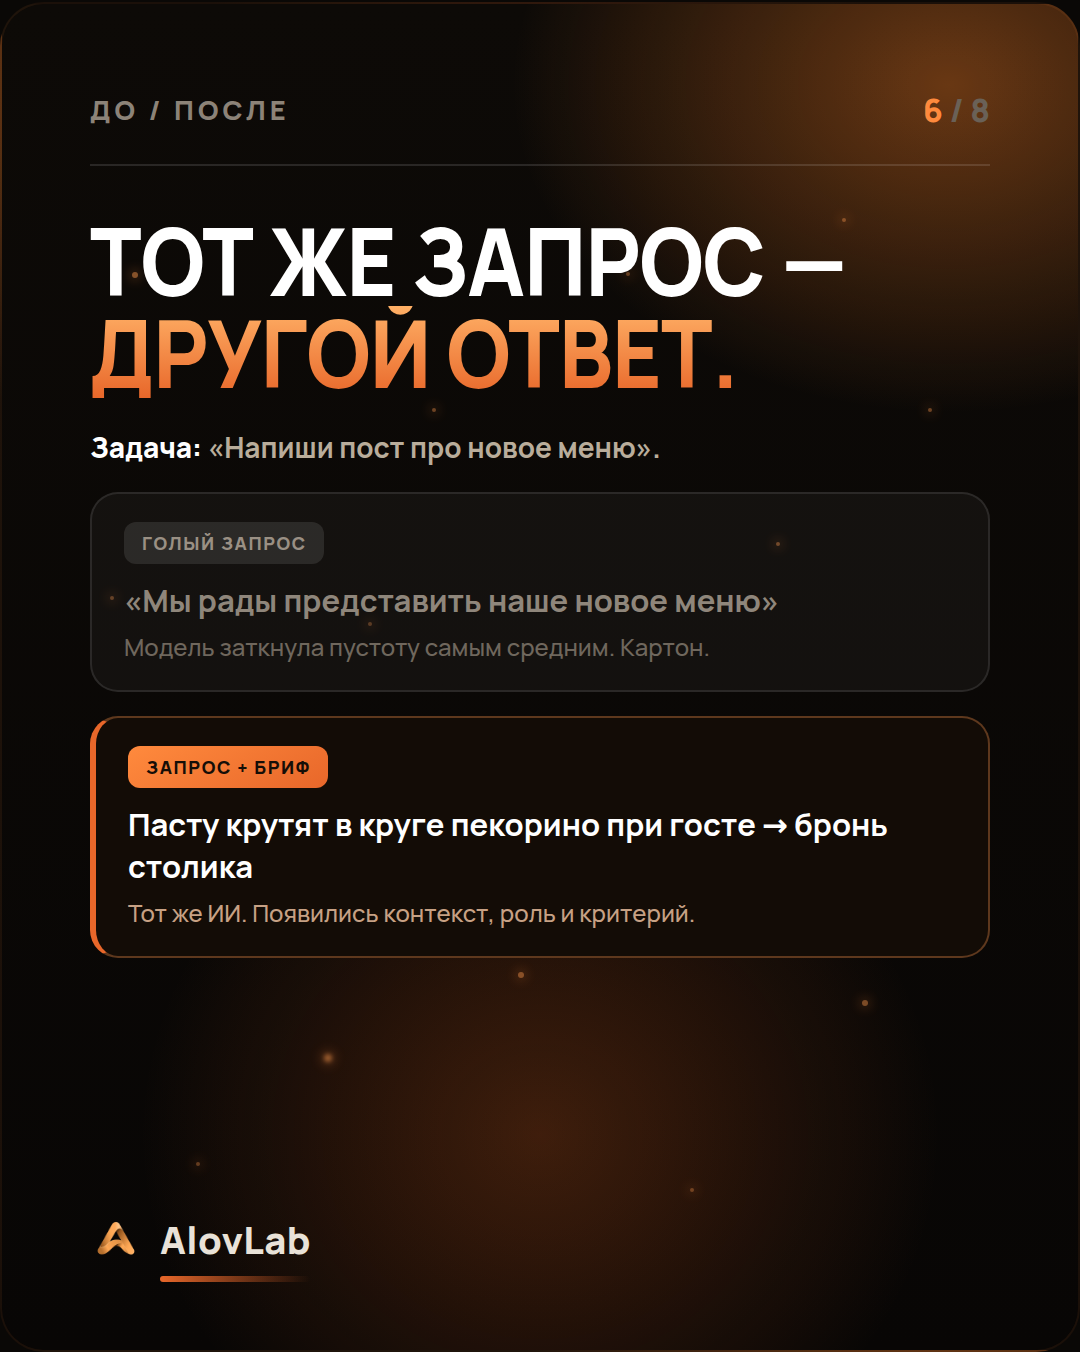
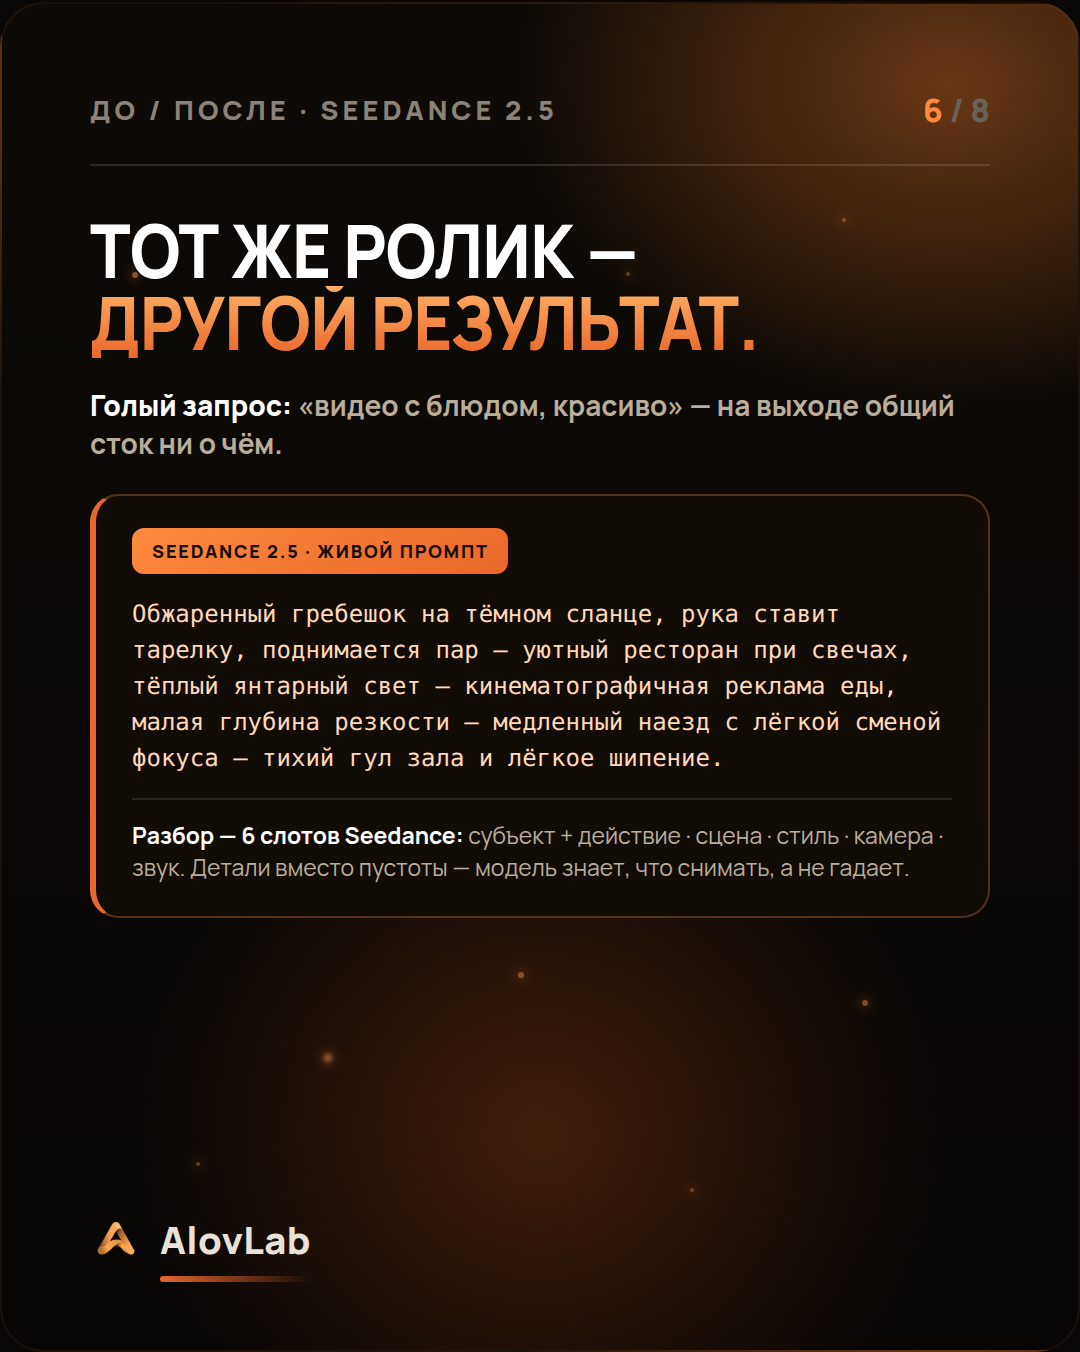
Карусель Дня 8: слайд «до/после» — реальный промпт Seedance 2.5 + разбор
Заменил абстрактный пример на живой трендовый промпт видеомодели Seedance 2.5
(6-слотовая формула: субъект+действие/сцена/стиль/камера/звук) с разбором.
Сверено по актуальным источникам (релиз 31.07.2026).

Claude-Session: https://claude.ai/code/session_019LoRMaWcrsShywAHDg8vmg

diff --git a/scripts/carousel_showcase_day8.py b/scripts/carousel_showcase_day8.py
@@ -155,15 +155,13 @@ def brief_slide():
 </article>"""
 
 def demo_slide():
-    return f"""<article class="slide">{DEFS}
+    return f"""<article class="slide hsm">{DEFS}
   <div class="sparks">{sparks()}</div>
-  <div class="top"><span class="eb">До / после</span><span class="pg">6<b> / 8</b></span></div>
-  <div class="head"><h2><span class="w">Тот же запрос —</span><span class="o">другой ответ.</span></h2></div>
-  <div class="split">
-    <div class="sfact"><b>Задача:</b> «Напиши пост про новое меню».</div>
-    <div class="scard cold"><span class="lab">Голый запрос</span><div class="q">«Мы рады представить наше новое меню»</div><div class="r">Модель заткнула пустоту самым средним. Картон.</div></div>
-    <div class="scard hot"><span class="lab">Запрос + бриф</span><div class="q">Пасту крутят в круге пекорино при госте → бронь столика</div><div class="r">Тот же ИИ. Появились контекст, роль и критерий.</div></div>
-  </div>
+  <div class="top"><span class="eb">До / после · Seedance 2.5</span><span class="pg">6<b> / 8</b></span></div>
+  <div class="head"><h2><span class="w">Тот же ролик —</span><span class="o">другой результат.</span></h2></div>
+  <div class="sfact" style="margin-top:15px"><b>Голый запрос:</b> «видео с блюдом, красиво» — на выходе общий сток ни о чём.</div>
+  <div class="pbox"><span class="tag">Seedance 2.5 · живой промпт</span><code>Обжаренный гребешок на тёмном сланце, рука ставит тарелку, поднимается пар — уютный ресторан при свечах, тёплый янтарный свет — кинематографичная реклама еды, малая глубина резкости — медленный наезд с лёгкой сменой фокуса — тихий гул зала и лёгкое шипение.</code>
+    <div class="ru"><b>Разбор — 6 слотов Seedance:</b> субъект + действие · сцена · стиль · камера · звук. Детали вместо пустоты — модель знает, что снимать, а не гадает.</div></div>
   {FOOT}
 </article>"""
 
